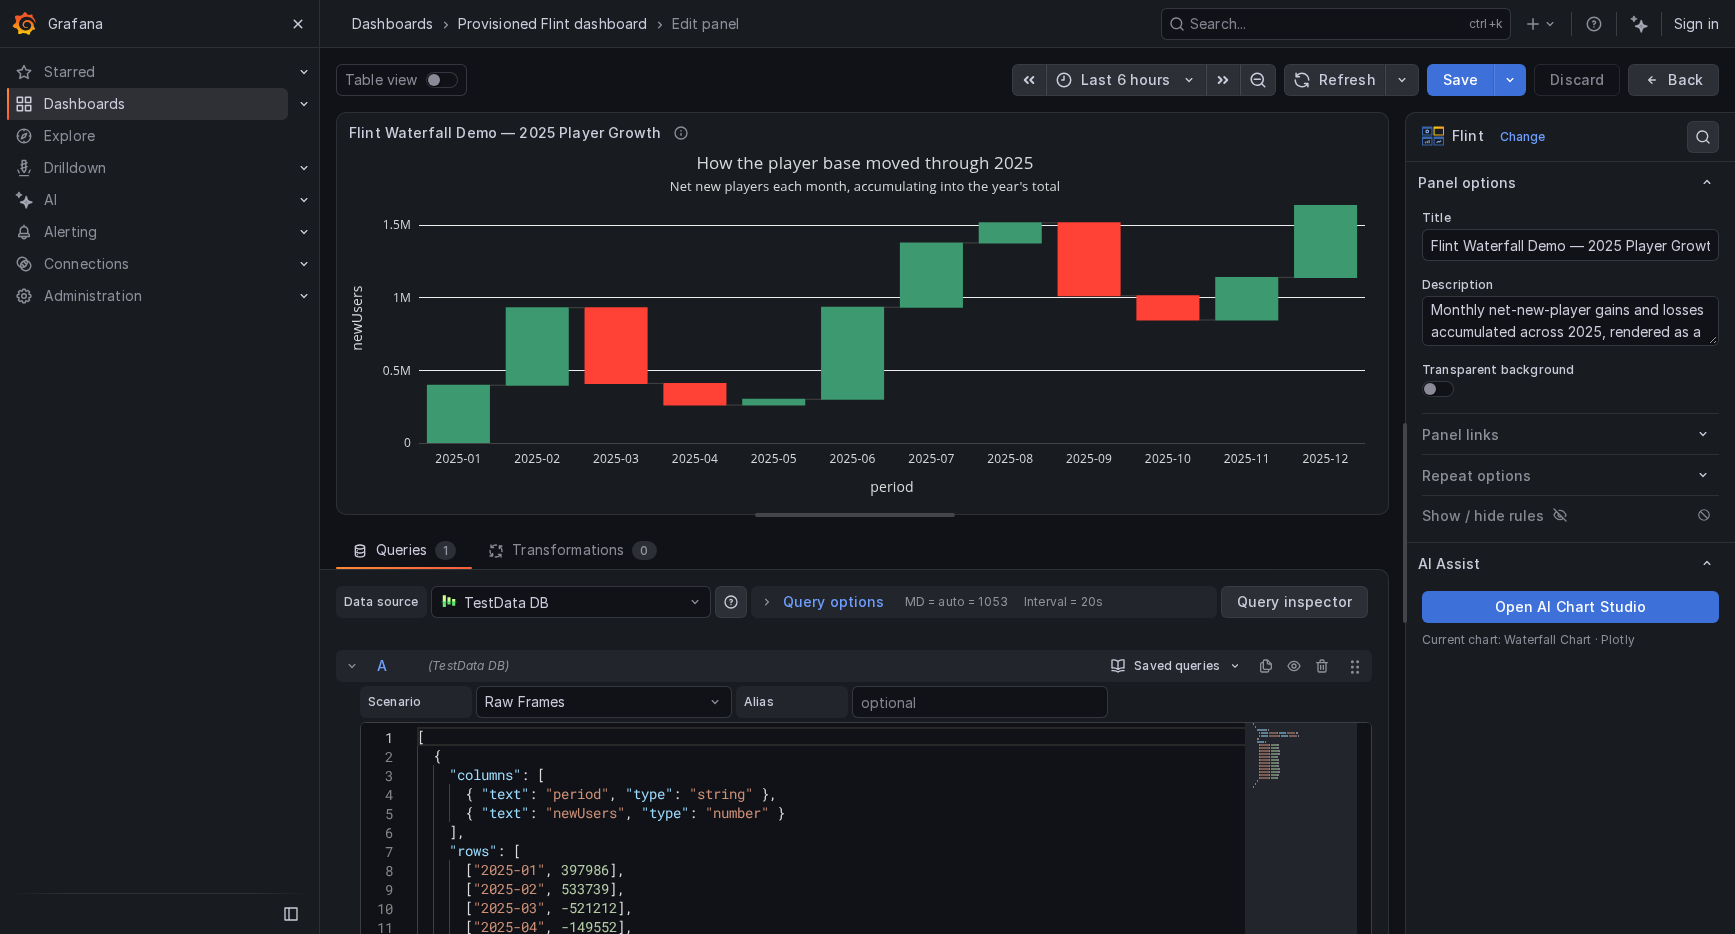
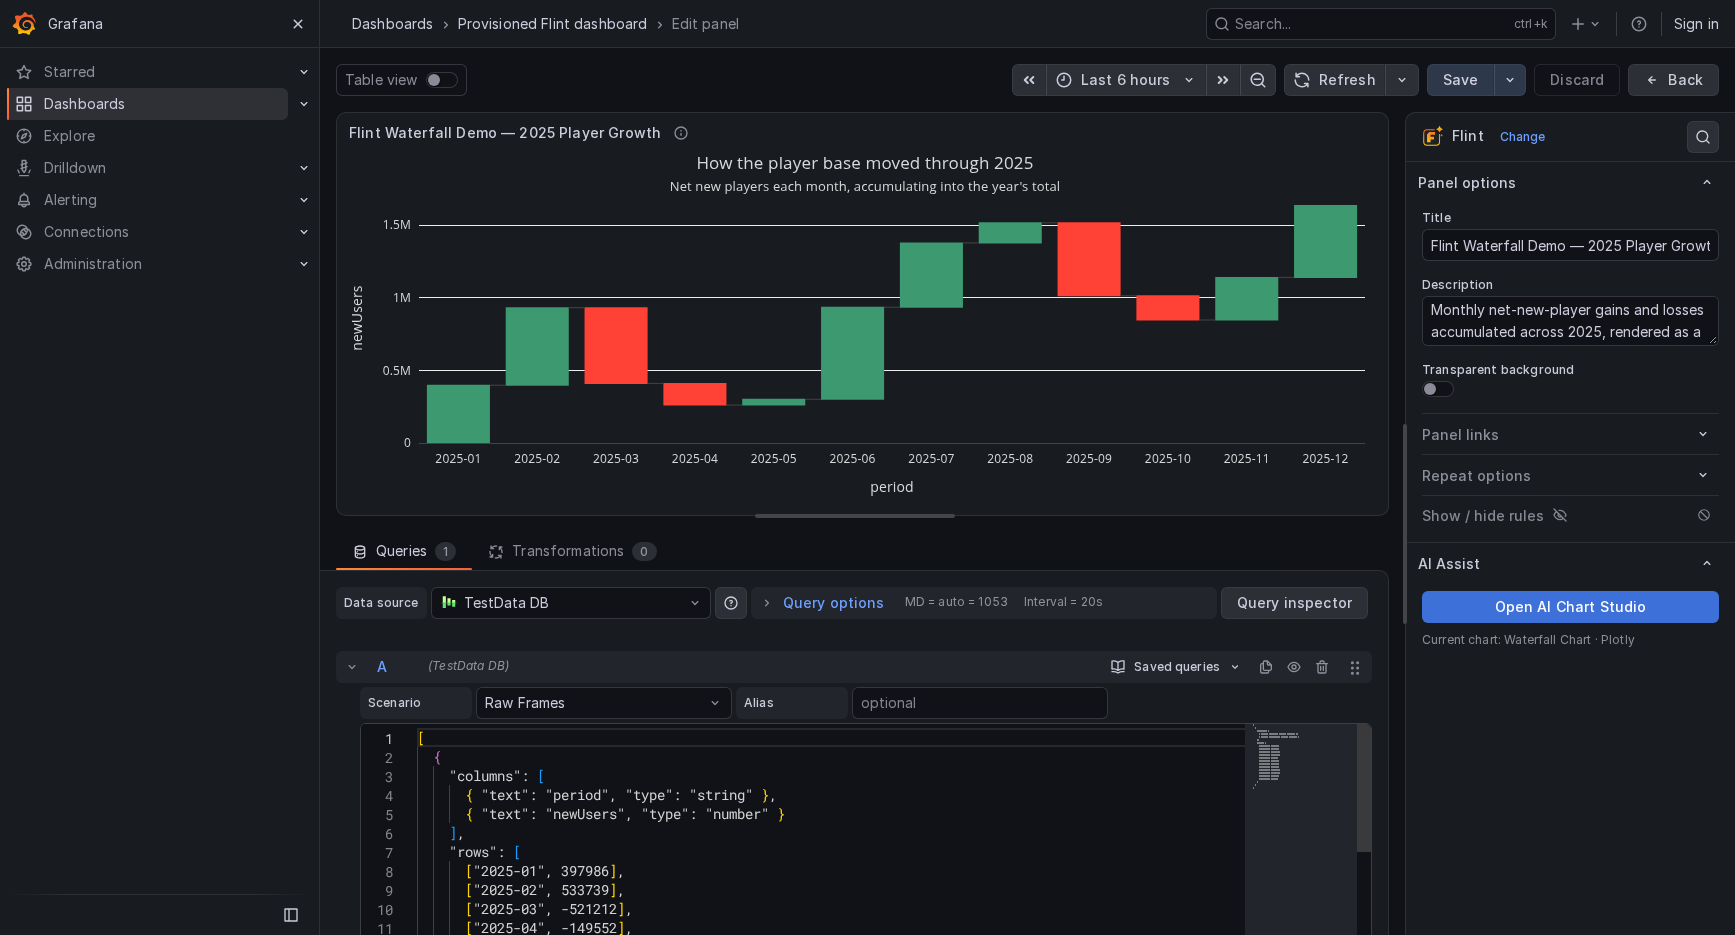
chore(release): v0.3.1 refresh branding and AI setup docs

diff --git a/README.md b/README.md
@@ -1,4 +1,4 @@
-# Flint Panel for Grafana
+# ![Flint AI Panel logo](src/img/logo-title.png) Flint Panel for Grafana
 
 [English](README.md) | [简体中文](README.zh-CN.md)
 
@@ -7,9 +7,9 @@ Flint is an AI-assisted visualization panel for Grafana, powered by [Microsoft F
 > [!WARNING]
 > **Project status: experimental, research-oriented proof of concept (POC).** This repository demonstrates and evaluates a Grafana integration with Flint and AI-generated visualization proposals; it is not production-ready and does not provide a stable compatibility or migration guarantee. Treat every AI proposal as untrusted: even a style-only request such as “change the colors” may currently regenerate chart type, field bindings, or Flint Spec. Review the preview and Chart Settings before Apply. See [Project status and maturity](docs/project-status.md).
 
-**AI Assist is the primary workflow.** Automatic chart selection and manual Chart Studio controls remain available as reliable fallbacks. Conversational generation uses a separately installed compatible Flint AI datasource, keeping provider configuration and credentials outside the panel.
+**AI Assist is the primary workflow.** Automatic chart selection and manual Chart Studio controls remain available as reliable fallbacks. Conversational generation uses the separately installed [Flint AI Datasource](https://github.com/IBUMBLEBEE/grafana-flintai-datasource) plugin, keeping provider configuration and credentials outside the panel.
 
-![AI Chart Studio with live Panel preview and AI Chat](src/img/screenshots/ai-chart-studio.gif)
+![AI Chart Studio with live Panel preview and AI Chat](src/img/screenshots/ai-chart-studio-v0.3.1.gif)
 
 ## Highlights
 
@@ -45,6 +45,16 @@ For incremental frontend development, run:
 ```bash
 npm run dev
 ```
+
+### Install the AI dependency
+
+AI Chat and chart generation require the companion [Flint AI Datasource](https://github.com/IBUMBLEBEE/grafana-flintai-datasource) plugin. Its current requirements specify **Grafana 13.1.0 or later**; the panel's automatic and manual chart features support Grafana 12.3.0 or later without this dependency.
+
+1. Install Flint AI Datasource in the same Grafana instance, following its [project documentation](https://github.com/IBUMBLEBEE/grafana-flintai-datasource#readme).
+2. Add a Flint AI Datasource instance and configure its provider, API token, and model. Test the AI connection and save the datasource.
+3. Open Flint Panel's AI Chart Studio and select the configured model.
+
+The datasource manages AI requests and credentials. Keep the panel's queries connected to the business datasource that supplies the chart data.
 
 ### Create a visualization with AI Assist
 
@@ -103,7 +113,7 @@ The AI workflow uses the query frames already attached to the Grafana panel. It 
 
 ## AI Assist setup and safety
 
-Install and configure a compatible Flint AI datasource separately, then select its model from AI Chart Studio. Automatic and manual chart creation remain available when that service is unavailable.
+Install and configure [Flint AI Datasource](https://github.com/IBUMBLEBEE/grafana-flintai-datasource) as described in [Install the AI dependency](#install-the-ai-dependency), then select its model from AI Chart Studio. Automatic and manual chart creation remain available when that service is unavailable.
 
 The integration follows these boundaries:
 

diff --git a/src/README.md b/src/README.md
@@ -1,6 +1,12 @@
-# Flint
+# ![Flint AI Panel logo](img/logo-title.png) Flint
 
 Flint is an AI-assisted visualization panel for Grafana, powered by Microsoft Flint. Describe the chart you want in AI Chat, generate a proposal grounded in the panel's current query frames, review the live preview, and explicitly apply it. Flint renders the approved result with Apache ECharts, Vega-Lite, Plotly, or Chart.js.
+
+## AI dependency
+
+AI Chat and chart generation require [Flint AI Datasource](https://github.com/IBUMBLEBEE/grafana-flintai-datasource), installed in the same Grafana instance. The datasource currently requires **Grafana 13.1.0 or later**. Follow its [setup documentation](https://github.com/IBUMBLEBEE/grafana-flintai-datasource#readme) to configure a provider, API token, and model, test the connection, and save the datasource before selecting its model in AI Chart Studio.
+
+Automatic and manual chart creation remain available on Grafana 12.3.0 or later without the AI datasource. Panel queries continue to use your business datasource for chart data.
 
 ## Quick start
 
@@ -24,7 +30,7 @@ Advanced users can edit **UI Framework Spec** in the Chart Studio. The panel sto
 
 ## AI Assist and safety
 
-AI Assist connects to a separately installed compatible Flint AI datasource. It combines the user's request with a redacted summary of the current query fields, generates a chart proposal, validates it against the live panel context, and stages it as a draft. The datasource owns provider configuration and credentials through Grafana `secureJsonData`; Flint Panel does not store credentials in panel options or dashboard JSON. Generated proposals remain drafts until explicitly applied.
+AI Assist connects to the separately installed [Flint AI Datasource](https://github.com/IBUMBLEBEE/grafana-flintai-datasource) plugin. It combines the user's request with a redacted summary of the current query fields, generates a chart proposal, validates it against the live panel context, and stages it as a draft. The datasource owns provider configuration and credentials through Grafana `secureJsonData`; Flint Panel does not store credentials in panel options or dashboard JSON. Generated proposals remain drafts until explicitly applied.
 
 Provider-facing data hints are redacted and size-limited. Generated Flint specifications and framework overrides cannot embed query data rows.
 

diff --git a/CHANGELOG.md b/CHANGELOG.md
@@ -1,5 +1,19 @@
 # Changelog
 
+## 0.3.1 - 2026-09-24
+
+### Improvements
+
+- Replace the plugin logo with a faceted F, an AI inspiration sparkle, and an orange-to-yellow panel outline.
+
+### Documentation
+
+- Display the new logo in the English, Chinese, and bundled plugin READMEs.
+- Refresh the demo GIF and its panel editor screenshot to show the new logo.
+- Link the Flint AI Datasource dependency and document its setup and Grafana version requirement for AI features.
+
+**Full changelog**: https://github.com/IBUMBLEBEE/grafana-flint-panel/compare/v0.3.0...v0.3.1
+
 ## 0.3.0 - 2026-09-23
 
 ### Bug fixes
